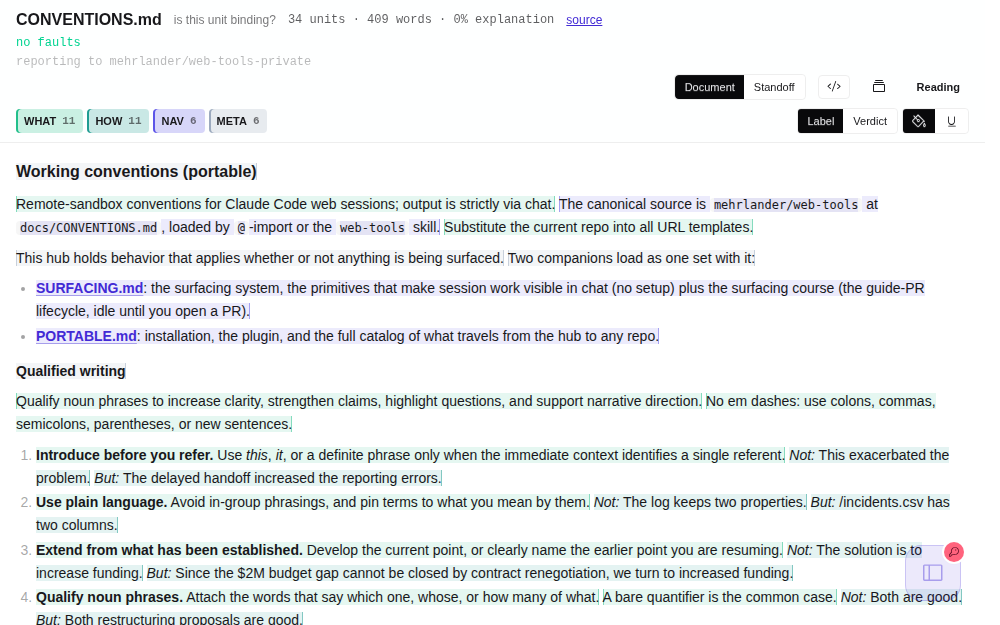
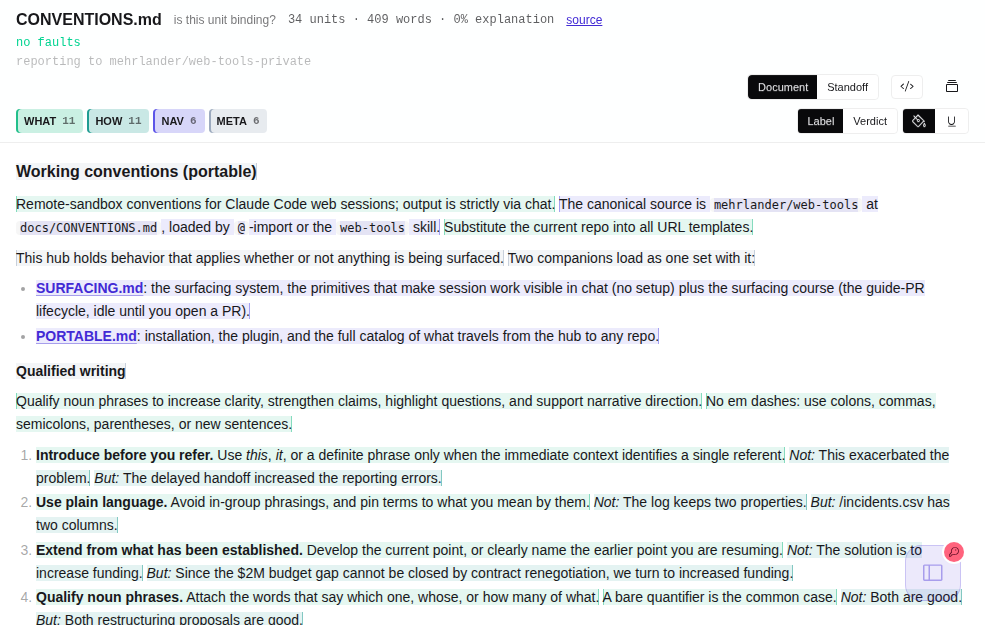
audit-render: the Reading modal becomes each legend chip's note
Each chip carries a note.js note: the label and its side as the title,
then the gloss, the label's unit count and word share, and its side's
totals when the side holds more than one label. The Reading button and
its modal are removed.

On a touchscreen note.js opens a note on tap, so the chip's tap now
shows the note first and dims the label on the next tap. A pointer that
hovers gets the note on hover, and a click dims at once.

Claude-Session: https://claude.ai/code/session_01UshAzoRR1in7ikmt3REzQ7

Changed region(s): [[0.651, 0.1216, 0.868, 0.1824], [0.899, 0.1216, 0.961, 0.152]]

diff --git a/pages/audit-render.html b/pages/audit-render.html
@@ -469,6 +469,7 @@ window.__audit = {
   await gh.load('kits/standoff.js');       // the annotation's rules, shared with ops.py
   await gh.load('kits/dictate.js');        // Dictate.pins: the settled edge-pin treatment
   await gh.load('kits/page-report.js');
+  await gh.load('kits/note.js');           // the chips' notes
   // THE OPT-IN, and it is the page's, not the reader's. Reporting is on from
   // here: a failure that needs a tap before it is recorded is a failure nobody
   // records, and the person holding the phone is the last one who should have
@@ -855,6 +856,26 @@ window.__audit = {
       const v = (this.so.vocabulary || []).find(x => x.label === k)
              || (this.so.verdicts || []).find(x => x.verdict === k);
       return v ? v.gloss : '';
+    },
+    // WHAT A CHIP'S NOTE SAYS: what Reading's modal used to hold, per key.
+    // The gloss, the key's share of the document, and on the label lens the
+    // side it belongs to with that side's share. Kept inside note.js's six
+    // lines, since a note that would scroll is a card.
+    noteTitle(k) {
+      const sd = this.lens === 'label' ? this.side(k) : '';
+      return sd ? `${k} · ${sd}` : k;
+    },
+    noteText(k) {
+      const us = this.units.filter(u => this.keyOf(u) === k);
+      const w = Math.round(100 * us.reduce((n, u) => n + u.words, 0) / (this.words || 1));
+      const lines = [this.gloss(k), `${us.length} unit${us.length === 1 ? '' : 's'}, ${w}% of words`];
+      const sd = this.lens === 'label' && this.side(k);
+      // A side holding only this label would repeat the line above.
+      if (sd && this.vocab.filter(v => v.side === sd).length > 1) {
+        const n = this.units.filter(u => this.side(u.label) === sd).length;
+        lines.push(`${sd} side: ${n} units, ${this.pctOn(sd)}% of words`);
+      }
+      return lines.filter(Boolean).join('\n');
     },
     // Unused keys are omitted from the legend on both axes: a chip for a label
     // nothing carries is a filter that does nothing.
@@ -1254,6 +1275,17 @@ window.__audit = {
     },
     dim(u) { return this.off[this.keyOf(u)] ? .12 : 1 },
     toggle(l) { this.off[l] = !this.off[l]; this.paint(); },
+    // ONE TAP, ONE THING, ON A TOUCHSCREEN. note.js opens a chip's note on
+    // tap where nothing can hover, so a tap there used to open the note and
+    // dim the label at once. There the first tap shows the note and the next
+    // tap on the same chip, which closes it, dims. A pointer that hovers gets
+    // the note on hover, so every click dims.
+    noteFor: null,
+    chipTap(k) {
+      if (matchMedia('(hover: none)').matches && this.noteFor !== k) { this.noteFor = k; return; }
+      this.noteFor = null;
+      this.toggle(k);
+    },
     // WHERE IN THE DOCUMENT, and only that. This opened with the target's path,
     // which is the same for every unit on the page and is already in the
     // header, so the first 21 characters of the panel's TALLEST line never
@@ -1938,8 +1970,8 @@ window.__audit = {
     <!-- Tenant chrome: this page is routinely tossed inside an iframe, so it
          sticks rather than taking the viewport, and it does not narrow itself
          to a reading column. The figure is one compact line, not stat cards:
-         the reading that gives those numbers meaning is one tap away, under
-         Reading. -->
+         the reading that gives those numbers meaning is in each legend chip's
+         note. -->
     <header x-ref="hdr" class="sticky top-0 z-20 bg-base-100/90 backdrop-blur border-b border-base-300">
       <div class="px-4 py-2 flex flex-wrap items-center gap-x-3 gap-y-1">
         <span class="font-semibold" x-text="a.title"></span>
@@ -1982,7 +2014,6 @@ window.__audit = {
           <i class="ph ph-code text-sm"></i></button>
         <button class="btn btn-xs btn-ghost h-6 min-h-0 px-2" @click="deck()"
                 title="Read by section" aria-label="Read by section"><i class="ph ph-cards-three text-base"></i></button>
-        <button class="btn btn-xs btn-ghost" @click="$refs.reading.showModal()">Reading</button>
         <div class="join" x-show="patch.length" x-cloak>
           <button class="join-item btn btn-xs" :disabled="!canUndo" @click="undo()"
                   aria-label="undo"><i class="ph ph-arrow-counter-clockwise"></i></button>
@@ -2006,8 +2037,8 @@ window.__audit = {
                   :style="`background:rgba(${HUE[k]},${off[k]?0.05:0.22});
                            box-shadow:inset 2px 0 0 0 rgba(${HUE[k]},${off[k]?0.2:0.9})`"
                   :class="off[k] && 'opacity-40'"
-                  :title="gloss(k)"
-                  @click="toggle(k)">
+                  :data-note="noteText(k)" :data-note-title="noteTitle(k)" data-note-bare
+                  @click="chipTap(k)">
             <span x-text="k"></span>
             <span class="opacity-60 font-mono" x-text="tally(k)"></span>
           </button>
@@ -2252,35 +2283,6 @@ window.__audit = {
       </div>
     </dialog>
 
-    <!-- Where the numbers went: the header carries the figure, the reading that
-         makes it mean something lives here, one tap away. -->
-    <dialog class="modal" x-ref="reading">
-      <div class="modal-box max-w-lg">
-        <table class="table table-sm">
-          <thead><tr><th>side</th><th>units</th><th>words</th></tr></thead>
-          <tbody>
-            <template x-for="sd in sides" :key="sd">
-              <tr><td x-text="sd"></td>
-                  <td class="font-mono" x-text="units.filter(u => side(u.label) === sd).length"></td>
-                  <td class="font-mono" x-text="pctOn(sd) + '%'"></td></tr>
-            </template>
-          </tbody>
-        </table>
-        <table class="table table-sm mt-2">
-          <thead><tr><th>label</th><th>units</th><th>words</th><th>side</th><th>is</th></tr></thead>
-          <tbody>
-            <template x-for="v in vocab" :key="v.label">
-              <tr><td class="font-mono" x-text="v.label"></td>
-                  <td class="font-mono" x-text="count(v.label)"></td>
-                  <td class="font-mono" x-text="shareOf[v.label] + '%'"></td>
-                  <td class="opacity-60" x-text="v.side"></td>
-                  <td class="opacity-60" x-text="v.gloss"></td></tr>
-            </template>
-          </tbody>
-        </table>
-        <form method="dialog" class="modal-backdrop"><button class="btn btn-sm btn-block mt-3">close</button></form>
-      </div>
-    </dialog>
 
   </div>
 </template>
